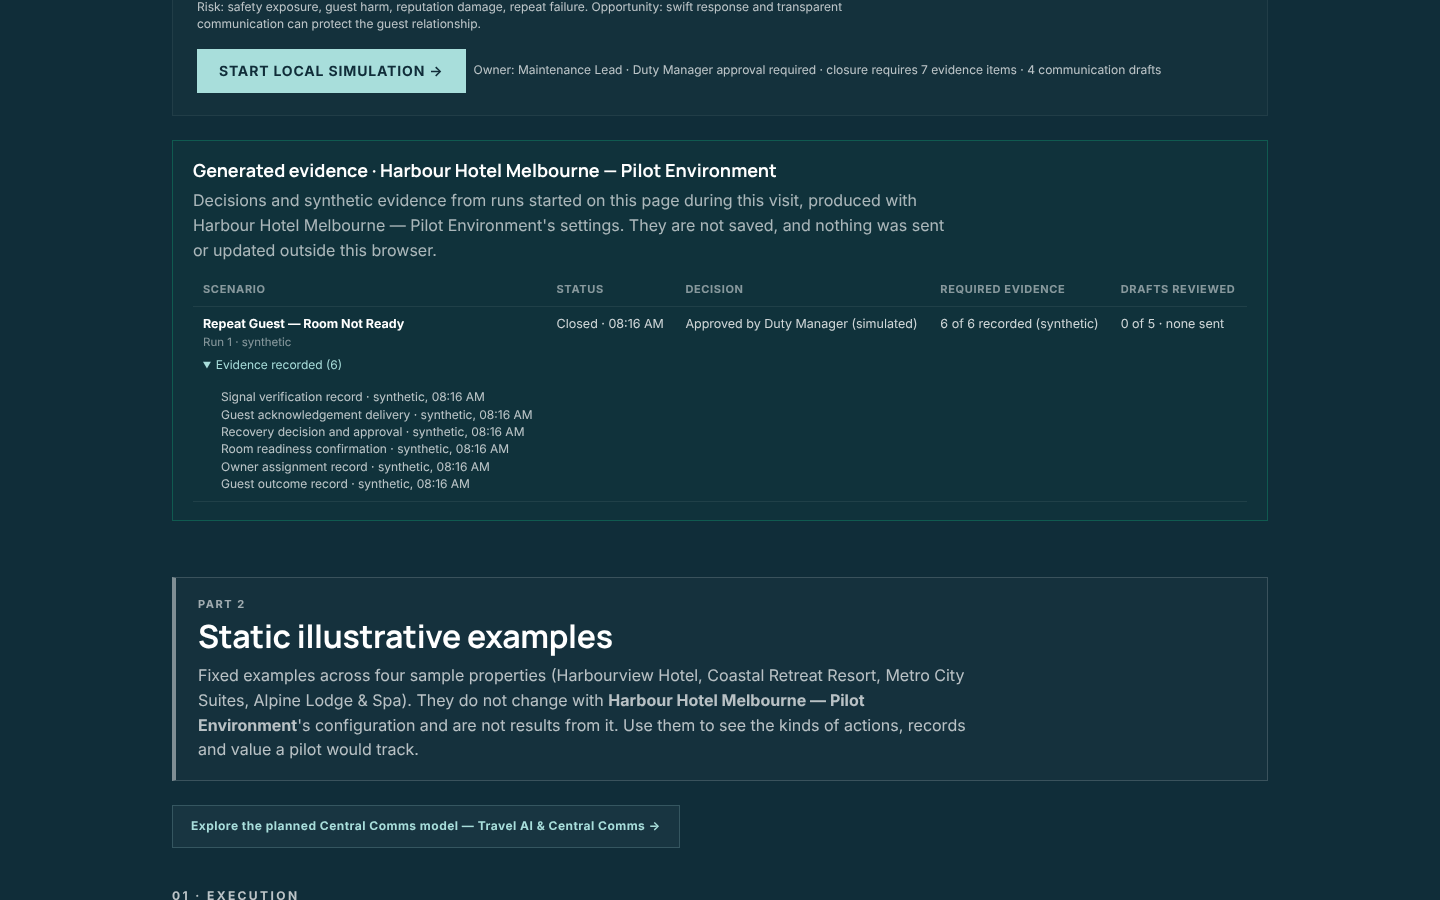
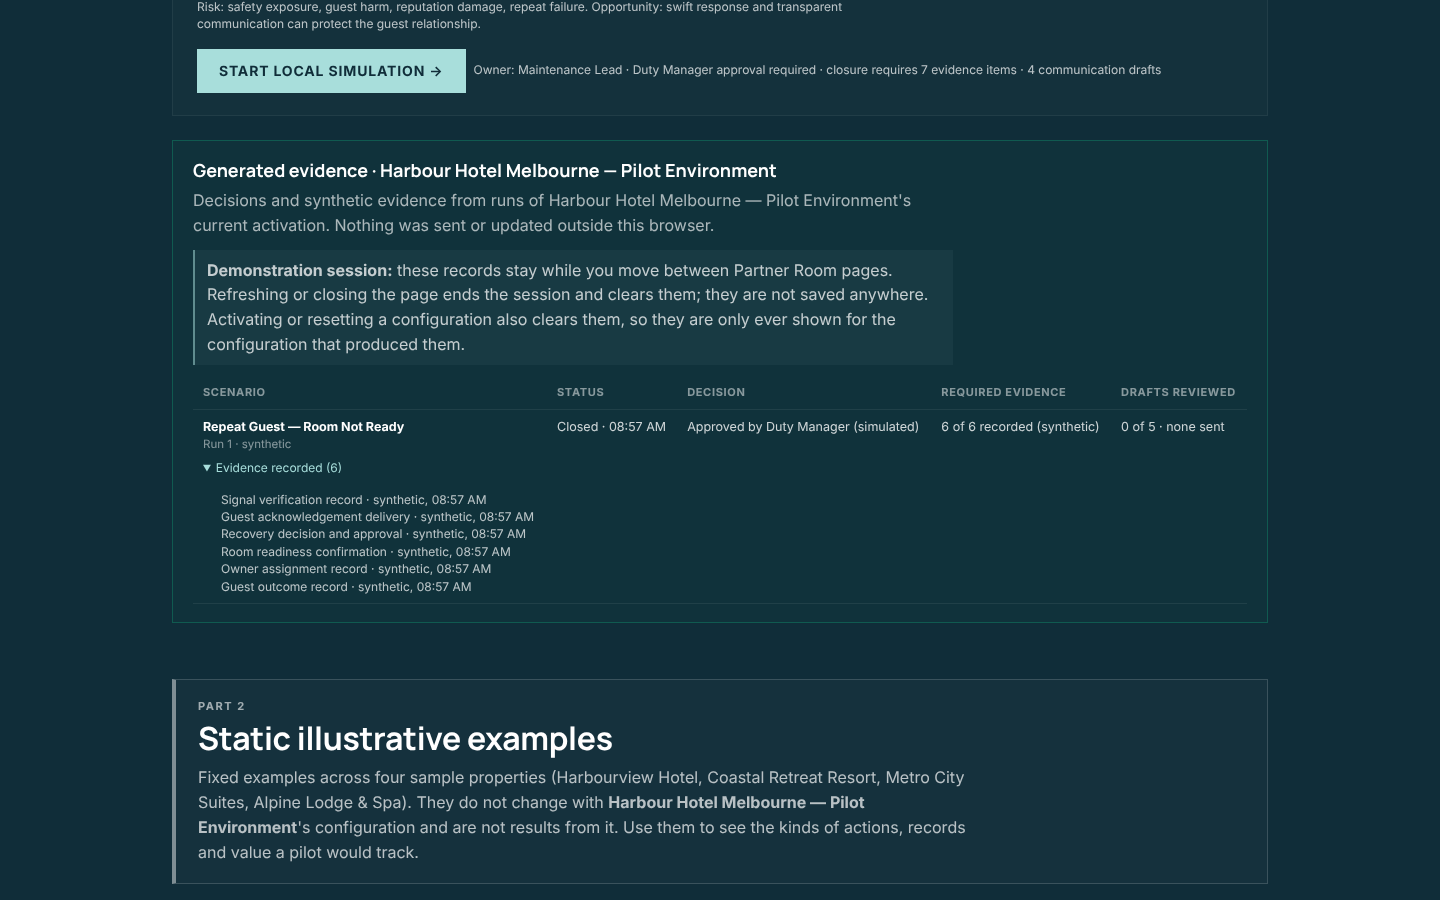
Keep generated evidence across Partner Room navigation for the session
Runs of the activated deployment now live in an in-memory session store
(RunSessionContext) above the router, so leaving the Operations Centre for
the Simulation Lab, Calculator or any other page and returning through
Evidence shows the same run, decision and recorded evidence, and the trace
picks up where it was left.

Each record carries the key of the activation that produced it (deployment
id + activation time). Activating any configuration, re-activating the same
one or resetting discards earlier records, and runs reported for another
configuration are ignored, so records are never shown as results of a
different configuration. Nothing is persisted: the page states that
refreshing or closing it ends the demonstration session.

Tests: 6 browser checks at 390/820/1440px (survives navigation via
Simulation Lab, Calculator and Pilot, cleared by refresh; reconfiguring and
resetting never carry records over) and a unit test for activation keys.

Claude-Session: https://claude.ai/code/session_01F5TpjzTwv9w8J8EexRookR

diff --git a/artifacts/welbx/src/pages/partner-room/PartnerOperationsCentre.tsx b/artifacts/welbx/src/pages/partner-room/PartnerOperationsCentre.tsx
@@ -1,6 +1,6 @@
 import { useSearch } from "wouter";
 import { TravelSimulationPanel } from "@/components/simulation/TravelSimulationPanel";
-import { useCallback, useEffect, useMemo, useState } from "react";
+import { useEffect, useMemo, useState } from "react";
 import { summariseDeployment, summariseScenarioExecution, type ScenarioConfigurationSummary } from "@/lib/deploymentOperation";
 import { stateLabel as plainStateLabel } from "@/lib/plainLanguage";
 import "./operations-centre.css";
@@ -14,6 +14,7 @@ import {
   type ActionStatus, type TravelOperatingSystemName, type TravelRole,
 } from "@/data/travelOperations";
 import { useDeployment } from "@/context/DeploymentContext";
+import { configurationKey, useRunSession, type RunRecord } from "@/context/RunSessionContext";
 import {
   createExecution,
   transitionExecution,
@@ -202,7 +203,6 @@ const roleName = (id: string) => TRAVEL_ROLES.find(r => r.id === id)?.name ?? id
 
 // ── Records generated by the configured operation ─────────────────────────────
 
-interface RunRecord { exec: ScenarioExecution; cycle: number }
 
 function decisionText(exec: ScenarioExecution): string {
   if (!exec.approvalRequired) return `Delegated authority · ${roleName(exec.accountableRoleId)}`;
@@ -227,7 +227,10 @@ function RunRecords({ deploymentName, records }: { deploymentName: string | null
     <section id="generated-evidence" className="ops-records" data-testid="run-records" aria-labelledby="run-records-title">
       <h3 id="run-records-title">Generated evidence · {deploymentName}</h3>
       <p>
-        Decisions and synthetic evidence from runs started on this page during this visit, produced with {deploymentName}'s settings. They are not saved, and nothing was sent or updated outside this browser.
+        Decisions and synthetic evidence from runs of {deploymentName}'s current activation. Nothing was sent or updated outside this browser.
+      </p>
+      <p className="ops-records-session" data-testid="session-notice">
+        <strong>Demonstration session:</strong> these records stay while you move between Partner Room pages. Refreshing or closing the page ends the session and clears them; they are not saved anywhere. Activating or resetting a configuration also clears them, so they are only ever shown for the configuration that produced them.
       </p>
       {records.length === 0 ? (
         <p className="ops-records-empty">No runs yet, so no evidence has been generated. Start a scenario above and its decisions and recorded evidence appear here.</p>
@@ -325,7 +328,7 @@ function ProofSummary() {
 type ExecView = "operator" | "guest" | "dual";
 
 function ExecTracePanel({
-  deployment, scenario, playbook, onReset, onExecutionChange,
+  deployment, scenario, playbook, onReset, onExecutionChange, restored,
 }: {
   deployment: TravelDeploymentConfig;
   scenario: (typeof TRAVEL_SCENARIOS)[0];
@@ -333,13 +336,17 @@ function ExecTracePanel({
   onReset: () => void;
   /** Reports each change to this scenario's run so the page can list what the configured operation generated. */
   onExecutionChange?: (scenarioId: string, exec: ScenarioExecution | null, cycle: number) => void;
+  /** This scenario's run from earlier in the session, picked up where it was left. */
+  restored?: RunRecord;
 }) {
-  const [exec, setExec] = useState<ScenarioExecution | null>(null);
+  const [exec, setExec] = useState<ScenarioExecution | null>(() => restored?.exec ?? null);
   const [view, setView]     = useState<ExecView>("operator");
-  const [learning, setLearning] = useState<RuntimeLearning | null>(null);
+  const [learning, setLearning] = useState<RuntimeLearning | null>(
+    () => restored?.exec.state === "closed" ? generateLearning(restored.exec, scenario, playbook) : null,
+  );
   const [blockMessage, setBlockMessage] = useState<string | null>(null);
   const [returnReason, setReturnReason] = useState("");
-  const [cycle, setCycle] = useState(1);
+  const [cycle, setCycle] = useState(() => restored?.cycle ?? 1);
   const [priorLearning, setPriorLearning] = useState<RuntimeLearning | null>(null);
   const requirements = getScenarioRuntimeRequirements(deployment, scenario);
   // The settings the next run will use, read from the execution the engine creates.
@@ -917,19 +924,9 @@ export default function PartnerOperationsCentre() {
 
   const { activeDeployment } = useDeployment();
   const [launchedScenarioId, setLaunchedScenarioId] = useState<string | null>(null);
-  const [runRecords, setRunRecords] = useState<Record<string, RunRecord>>({});
-  const recordRun = useCallback((scenarioId: string, exec: ScenarioExecution | null, cycle: number) => {
-    setRunRecords(prev => {
-      if (!exec) {
-        if (!(scenarioId in prev)) return prev;
-        const { [scenarioId]: _removed, ...rest } = prev;
-        return rest;
-      }
-      return { ...prev, [scenarioId]: { exec, cycle } };
-    });
-  }, []);
-  // Records belong to one configuration; a different activation starts a clean list.
-  useEffect(() => { setRunRecords({}); }, [activeDeployment?.id, activeDeployment?.activatedAt]);
+  // Runs live in the session store, so they survive moving between Partner Room pages.
+  const { records: runRecords, recordFor, recordRun } = useRunSession();
+  const configKey = configurationKey(activeDeployment);
   const requestedScenarioId = getScenarioIdFromQuery(
     location,
     typeof window === "undefined" ? "" : window.location.search,
@@ -1097,7 +1094,8 @@ export default function PartnerOperationsCentre() {
                 {/* Active execution trace */}
                 {launchedEntry ? (
                   <ExecTracePanel
-                    key={launchedEntry.scenario.id}
+                    key={`${configKey}:${launchedEntry.scenario.id}`}
+                    restored={recordFor(launchedEntry.scenario.id)}
                     deployment={activeDeployment}
                     scenario={launchedEntry.scenario}
                     playbook={launchedEntry.playbook}
@@ -1113,7 +1111,8 @@ export default function PartnerOperationsCentre() {
                   <div style={{ display: "flex", flexDirection: "column", gap: 2 }}>
                     {activeDeploymentScenarios.map(({ scenario, playbook }) => (
                       <ExecTracePanel
-                        key={scenario.id}
+                        key={`${configKey}:${scenario.id}`}
+                        restored={recordFor(scenario.id)}
                         deployment={activeDeployment}
                         scenario={scenario}
                         playbook={playbook}
@@ -1125,7 +1124,7 @@ export default function PartnerOperationsCentre() {
                 )}
               </>
             )}
-            <RunRecords deploymentName={activeDeployment.deploymentName} records={Object.values(runRecords)} />
+            <RunRecords deploymentName={activeDeployment.deploymentName} records={runRecords} />
           </div>
         )}
         </section>

diff --git a/artifacts/welbx/src/context/RunSessionContext.tsx b/artifacts/welbx/src/context/RunSessionContext.tsx
@@ -1,0 +1,85 @@
+/**
+ * RunSessionContext — runs of the activated deployment for this demonstration session.
+ *
+ * Held in memory only, so runs and their synthetic evidence survive moving between
+ * Partner Room pages and end when the page is refreshed or closed. Nothing is saved
+ * or sent anywhere.
+ *
+ * Every record carries the key of the configuration that produced it. Activating a
+ * different configuration, re-activating the same one or resetting it discards the
+ * earlier records, so they can never be shown as results of the new configuration.
+ */
+import { createContext, useCallback, useContext, useMemo, useRef, useState, type ReactNode } from "react";
+import type { TravelDeploymentConfig } from "@/data/travelDeploymentConfig";
+import type { ScenarioExecution } from "@/lib/runtimeEngine";
+import { useDeployment } from "@/context/DeploymentContext";
+
+export interface RunRecord {
+  exec: ScenarioExecution;
+  cycle: number;
+  /** The configuration activation that produced this run. */
+  configurationKey: string;
+}
+
+/** One activation of one configuration. Re-activating, even unchanged, starts a new key. */
+export function configurationKey(deployment: TravelDeploymentConfig | null): string | null {
+  return deployment ? `${deployment.id}@${deployment.activatedAt ?? deployment.updatedAt}` : null;
+}
+
+interface RunSessionContextType {
+  /** Records produced by the active configuration, in the order the runs started. */
+  records: RunRecord[];
+  /** The stored run for one scenario of the active configuration, if any. */
+  recordFor: (scenarioId: string) => RunRecord | undefined;
+  /** Store (or, with null, discard) a scenario's run for the active configuration. */
+  recordRun: (scenarioId: string, exec: ScenarioExecution | null, cycle: number) => void;
+}
+
+const RunSessionContext = createContext<RunSessionContextType | null>(null);
+
+interface SessionState { key: string | null; runs: Record<string, RunRecord> }
+
+export function RunSessionProvider({ children }: { children: ReactNode }) {
+  const { activeDeployment } = useDeployment();
+  const activeKey = configurationKey(activeDeployment);
+  const [session, setSession] = useState<SessionState>({ key: activeKey, runs: {} });
+
+  // A different activation (or a reset) discards earlier records before anything renders them.
+  let current = session;
+  if (session.key !== activeKey) {
+    current = { key: activeKey, runs: {} };
+    setSession(current);
+  }
+  const keyRef = useRef(activeKey);
+  keyRef.current = activeKey;
+
+  const recordRun = useCallback((scenarioId: string, exec: ScenarioExecution | null, cycle: number) => {
+    const key = keyRef.current;
+    setSession(prev => {
+      // A run reported for another configuration (e.g. by a page still unmounting) is never stored.
+      if (!key || prev.key !== key || (exec && exec.deploymentId !== key.split("@")[0])) return prev;
+      if (!exec) {
+        if (!(scenarioId in prev.runs)) return prev;
+        const { [scenarioId]: _removed, ...rest } = prev.runs;
+        return { ...prev, runs: rest };
+      }
+      const existing = prev.runs[scenarioId];
+      if (existing && existing.exec === exec && existing.cycle === cycle) return prev;
+      return { ...prev, runs: { ...prev.runs, [scenarioId]: { exec, cycle, configurationKey: key } } };
+    });
+  }, []);
+
+  const value = useMemo<RunSessionContextType>(() => {
+    const valid = current.key === activeKey ? current.runs : {};
+    const records = Object.values(valid).sort((a, b) => a.exec.startedAt.localeCompare(b.exec.startedAt));
+    return { records, recordFor: scenarioId => valid[scenarioId], recordRun };
+  }, [current, activeKey, recordRun]);
+
+  return <RunSessionContext.Provider value={value}>{children}</RunSessionContext.Provider>;
+}
+
+export function useRunSession(): RunSessionContextType {
+  const ctx = useContext(RunSessionContext);
+  if (!ctx) throw new Error("useRunSession must be used inside RunSessionProvider");
+  return ctx;
+}

diff --git a/artifacts/welbx/src/App.tsx b/artifacts/welbx/src/App.tsx
@@ -6,6 +6,7 @@ import { TooltipProvider } from "@/components/ui/tooltip";
 import { PartnerContentProvider } from "@/context/PartnerContentContext";
 import { PartnerAccessGate } from "@/components/PartnerAccessGate";
 import { DeploymentProvider } from "@/context/DeploymentContext";
+import { RunSessionProvider } from "@/context/RunSessionContext";
 
 // ── Public routes ─────────────────────────────────────────────────────────────
 import Landing from "@/pages/Landing";
@@ -182,6 +183,7 @@ function App() {
     <QueryClientProvider client={queryClient}>
       <TooltipProvider>
         <DeploymentProvider>
+          <RunSessionProvider>
           <PartnerContentProvider>
             <WouterRouter base={import.meta.env.BASE_URL.replace(/\/$/, "")}>
               <div className="rtbx-readable-content">
@@ -192,6 +194,7 @@ function App() {
             </WouterRouter>
             <Toaster />
           </PartnerContentProvider>
+          </RunSessionProvider>
         </DeploymentProvider>
       </TooltipProvider>
     </QueryClientProvider>

diff --git a/artifacts/welbx/src/__tests__/ux-phase3-journey.test.ts b/artifacts/welbx/src/__tests__/ux-phase3-journey.test.ts
@@ -74,3 +74,15 @@ describe("Phase 3 navigation", () => {
     expect(operations).toContain("No runs yet, so no evidence has been generated.");
   });
 });
+
+describe("Generated evidence session", () => {
+  it("gives every activation its own key, so records never pass between configurations", async () => {
+    const { configurationKey } = await import("@/context/RunSessionContext");
+    const base = { id: "dep-harbour-hotel-melbourne", updatedAt: "2026-10-09T08:00:00.000Z" } as Parameters<typeof configurationKey>[0];
+    expect(configurationKey(null)).toBeNull();
+    const first = configurationKey({ ...base!, activatedAt: "2026-10-09T08:00:00.000Z" });
+    const again = configurationKey({ ...base!, activatedAt: "2026-10-09T08:05:00.000Z" });
+    expect(first).not.toBe(again);
+    expect(configurationKey({ ...base!, id: "dep-other", activatedAt: "2026-10-09T08:00:00.000Z" })).not.toBe(first);
+  });
+});

diff --git a/artifacts/welbx/src/pages/partner-room/operations-centre.css b/artifacts/welbx/src/pages/partner-room/operations-centre.css
@@ -62,3 +62,4 @@
 .ops-records-evidence { margin-top: 6px; font-weight: 400; }
 .ops-records-evidence summary { cursor: pointer; font-size: 12px; color: #a8dedb; min-height: 28px; }
 .ops-records-evidence ul { margin: 4px 0 0; padding-left: 18px; font-size: 12px; color: rgba(255, 255, 255, 0.72); }
+.ops-records .ops-records-session { font-size: 12.5px; color: rgba(255, 255, 255, 0.75); padding: 8px 12px; border-left: 2px solid rgba(168, 222, 219, 0.5); background: rgba(168, 222, 219, 0.05); }
